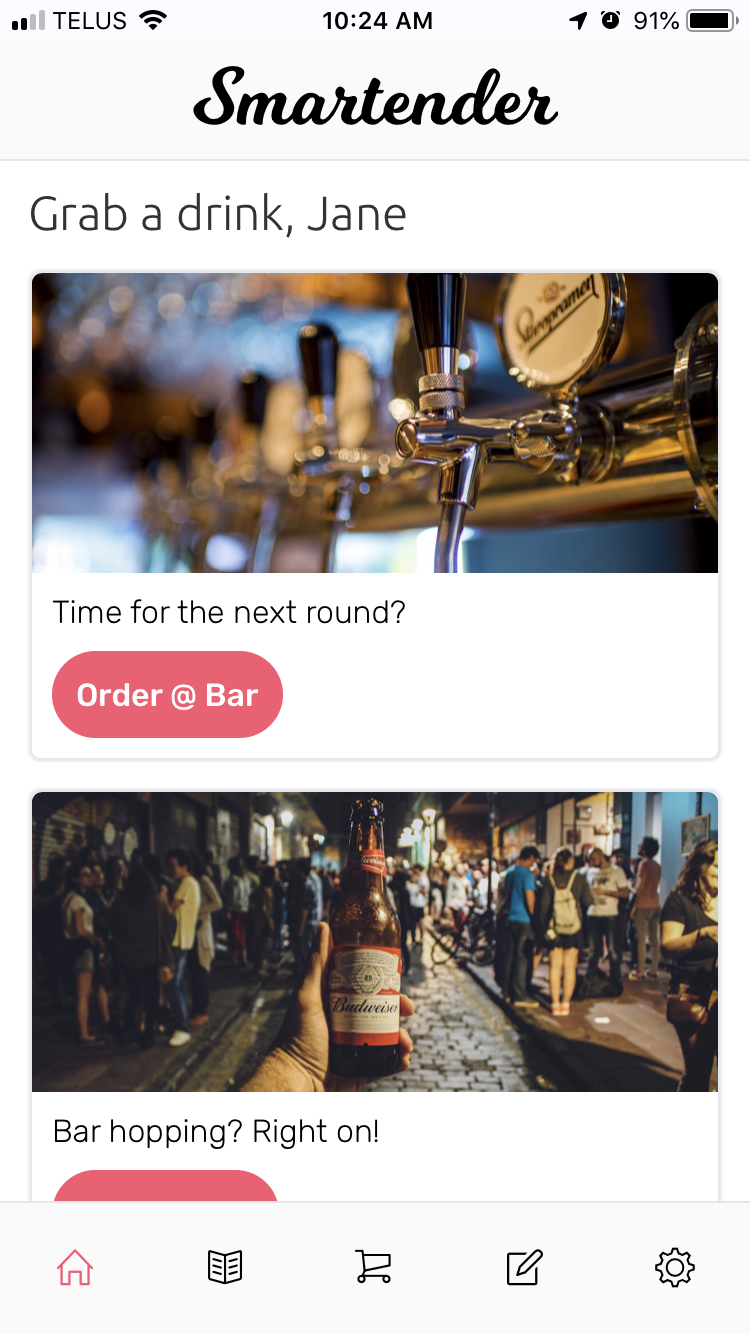
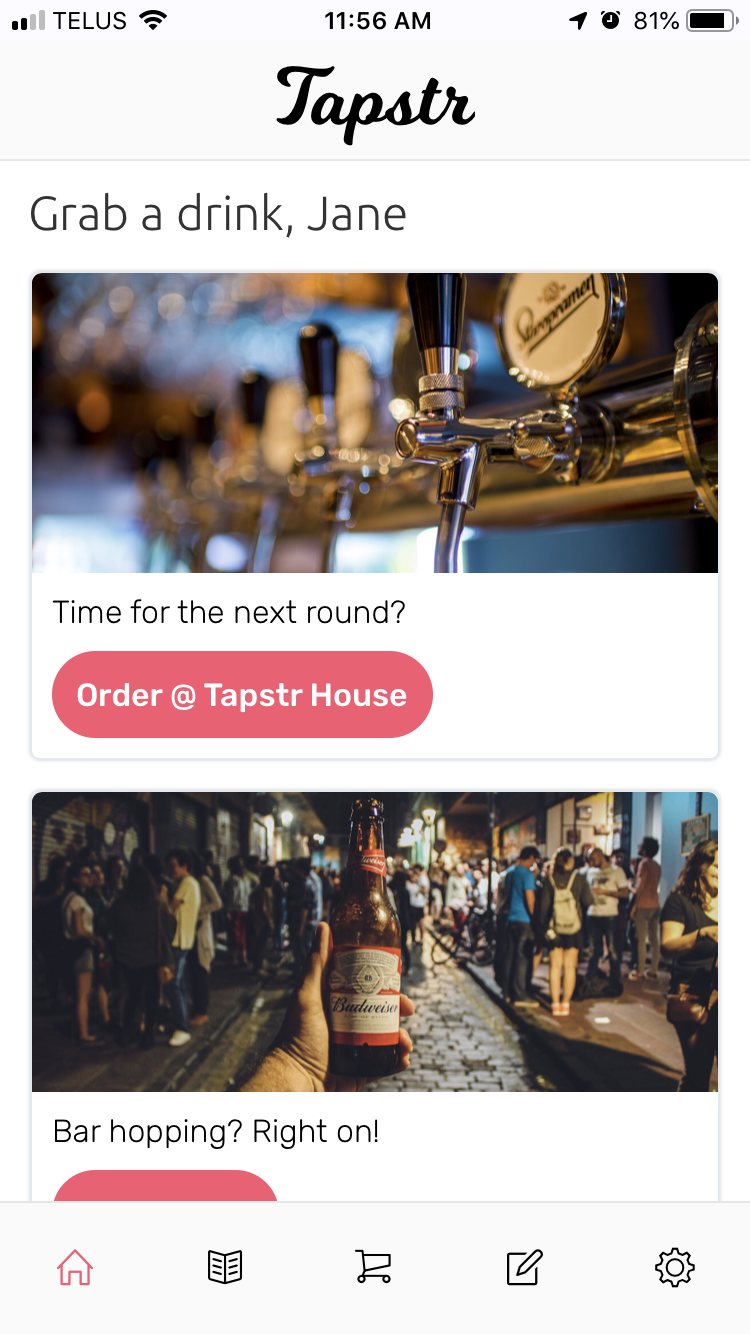
fixed typos and used correct image with name

Changed region(s): [[0.2453, 0.0, 0.736, 0.1229], [0.276, 0.461, 0.5827, 0.5532]]

diff --git a/css/new-age.min.css b/css/new-age.min.css
@@ -2,4 +2,4 @@
  * Start Bootstrap - New Age v5.0.3 (https://startbootstrap.com/template-overviews/new-age)
  * Copyright 2013-2019 Start Bootstrap
  * Licensed under MIT (https://github.com/BlackrockDigital/startbootstrap-new-age/blob/master/LICENSE)
- */body,html{width:100%;height:100%}body{font-family:Rubik,Helvetica,Arial,sans-serif}a{color:#fff;-webkit-transition:all .35s;transition:all .35s}a:focus,a:hover{color:#e6e6e6}hr{max-width:100px;margin:25px auto 0;border-width:1px;border-color:rgba(34,34,34,.1)}hr.light{border-color:#fff}h1,h2,h3,h4,h5,h6{font-family:Milkshake,Helvetica,Arial,sans-serif;font-weight:200;letter-spacing:1px}p{font-size:18px;line-height:1.5;margin-bottom:20px}section{padding:100px 0}section h2{font-size:50px}@font-face{font-family:Milkshake;src:url(../fonts/Milkshake.ttf)}.device .screen img{height:100%}#mainNav{border-color:rgba(34,34,34,.05);background-color:#fff;-webkit-transition:all .35s;transition:all .35s;font-family:Milkshake,Helvetica,Arial,sans-serif;font-weight:200;letter-spacing:1px}#mainNav .navbar-brand{color:#fff;font-size:32px;font-family:Milkshake,Helvetica,Arial,sans-serif;font-weight:200;letter-spacing:1px}#mainNav .navbar-brand:focus,#mainNav .navbar-brand:hover{color:#e6e6e6}#mainNav .navbar-toggler{font-size:12px;padding:8px 10px;color:#222}#mainNav .navbar-nav>li>a{font-size:11px;font-family:Lato,Helvetica,Arial,sans-serif;letter-spacing:2px;text-transform:uppercase}#mainNav .navbar-nav>li>a.active{color:#fa5770!important;background-color:transparent}#mainNav .navbar-nav>li>a.active:hover{background-color:transparent}#mainNav .navbar-nav>li>a,#mainNav .navbar-nav>li>a:focus{color:#222}#mainNav .navbar-nav>li>a:focus:hover,#mainNav .navbar-nav>li>a:hover{color:#fa5770}@media (max-width:375px){#mainNav .navbar-brand{color:#fa5770}#mainNav .navbar-brand:focus,#mainNav .navbar-brand:hover{color:#fa5770}#mainNav.navbar-shrink{-webkit-box-shadow:0 .5rem 1rem rgba(0,0,0,.15);box-shadow:0 .5rem 1rem rgba(0,0,0,.15)}}@media (min-width:992px){#mainNav{border-color:transparent;background-color:transparent}#mainNav .navbar-brand{color:fade(white,70%)}#mainNav .navbar-brand:focus,#mainNav .navbar-brand:hover{color:#fa5770}#mainNav .navbar-nav>li>a,#mainNav .navbar-nav>li>a:focus{color:rgba(255,255,255,.7)}#mainNav .navbar-nav>li>a:focus:hover,#mainNav .navbar-nav>li>a:hover{color:#fff}#mainNav.navbar-shrink{border-color:rgba(34,34,34,.1);background-color:#fff;-webkit-box-shadow:0 .5rem 1rem rgba(0,0,0,.15);box-shadow:0 .5rem 1rem rgba(0,0,0,.15)}#mainNav.navbar-shrink .navbar-brand{color:#fa5770}#mainNav.navbar-shrink .navbar-brand:focus,#mainNav.navbar-shrink .navbar-brand:hover{color:#fa5770}#mainNav.navbar-shrink .navbar-nav>li>a,#mainNav.navbar-shrink .navbar-nav>li>a:focus{color:#222}#mainNav.navbar-shrink .navbar-nav>li>a:focus:hover,#mainNav.navbar-shrink .navbar-nav>li>a:hover{color:#fa5770}}@media (max-width:991.98px){#mainNav .navbar-brand{color:#fa5770}#mainNav .navbar-brand:focus,#mainNav .navbar-brand:hover{color:#fa5770}#mainNav.navbar-shrink{-webkit-box-shadow:0 .5rem 1rem rgba(0,0,0,.15);box-shadow:0 .5rem 1rem rgba(0,0,0,.15)}}header.masthead{position:relative;width:100%;padding-top:150px;padding-bottom:100px;color:#fff;background:url(../img/bg-pattern.png),#dc2430;background:url(../img/bg-pattern.png),-webkit-gradient(linear,right top,left top,from(#dc2430),to(#fa5770));background:url(../img/bg-pattern.png),linear-gradient(to left,#dc2430,#fa5770)}header.masthead .header-content{max-width:500px;margin-bottom:100px;text-align:center}header.masthead .header-content h1{font-family:Rubik;font-size:30px}header.masthead .header-content h2{font-family:Rubik;font-size:24px}header.masthead .device-container{max-width:325px;margin-right:auto;margin-left:auto}header.masthead .device-container .screen img{border-radius:3px}@media (min-width:992px){header.masthead{height:100vh;min-height:775px;padding-top:0;padding-bottom:0}header.masthead .header-content{margin-bottom:0;text-align:left}header.masthead .header-content h1{font-size:50px}header.masthead .device-container{max-width:325px}}section.download{background:#222!important;position:relative;padding:150px 0}section.download h2{font-family:Rubik;font-size:50px;margin-top:0;color:#fff}section.download p{color:#fff}section.download .badges i{font-size:50px;color:#fa5770}section.download .badges a{color:#fff}section.download .badges .badge-link{display:block;margin-bottom:25px}section.download .badges .badge-link:last-child{margin-bottom:0}section.download .badges .badge-link img{height:60px}@media (min-width:768px){section.download .badges .badge-link{display:inline-block;margin-bottom:0}}@media (min-width:768px){section.download h2{font-size:70px;font-family:Rubik}}section.features .section-heading{margin-bottom:100px}section.features .section-heading h2{margin-top:0;font-family:Rubik}section.features .section-heading p{margin-bottom:0}section.features .device-container,section.features .feature-item{max-width:325px;margin:0 auto}section.features .device-container .fas--extramargin,section.features .feature-item .fas--extramargin{margin-bottom:24px}section.features .device-container{margin-bottom:100px}@media (min-width:992px){section.features .device-container{margin-bottom:0}}section.features .feature-item{padding-top:50px;padding-bottom:50px;text-align:center}section.features .feature-item h3{font-size:30px;font-family:Rubik}section.features .feature-item i{font-size:80px;display:block;margin-bottom:15px;background:-webkit-gradient(linear,right top,left top,from(#dc2430),to(#fa5770));background:linear-gradient(to left,#dc2430,#fa5770);-webkit-background-clip:text;-webkit-text-fill-color:transparent}@media (max-width:375px){section.features .device-container{display:none}}section.cta{position:relative;padding:200px 0;background-color:#222;height:100px;display:-webkit-box;display:-ms-flexbox;display:flex;-webkit-box-pack:center;-ms-flex-pack:center;justify-content:center;-webkit-box-align:center;-ms-flex-align:center;align-items:center}section.cta .cta-content{position:relative;z-index:1}section.cta .cta-content h2{font-size:24px;margin-top:0;color:#fff;font-family:Rubik}@media (min-width:768px){section.cta .cta-content h2{font-size:24px}}section.cta .overlay{position:absolute;top:0;left:0;width:100%;height:100%}section.contact{text-align:center}section.contact h2{margin-top:0;margin-bottom:25px;font-family:Rubik}section.contact h2 i{color:#dd4b39}section.contact ul.list-social{margin-bottom:0}section.contact ul.list-social li a{font-size:40px;line-height:80px;display:block;width:80px;height:80px;color:#fff;border-radius:100%}section.contact ul.list-social li.social-twitter a{background-color:#1da1f2}section.contact ul.list-social li.social-twitter a:hover{background-color:#0d95e8}section.contact ul.list-social li.social-facebook a{background-color:#3b5998}section.contact ul.list-social li.social-facebook a:hover{background-color:#344e86}section.contact ul.list-social li.social-google-plus a{background-color:#dd4b39}section.contact ul.list-social li.social-google-plus a:hover{background-color:#d73925}footer{padding:25px 0;text-align:center;color:rgba(255,255,255,.3);background-color:#222}footer p{font-size:12px;margin:0}footer ul{margin-bottom:0}footer ul li a{font-size:12px;color:rgba(255,255,255,.3)}footer ul li a.active,footer ul li a:active,footer ul li a:focus,footer ul li a:hover{text-decoration:none}.bg-primary{background:#fff;background:-webkit-gradient(linear,left top,left bottom,from(#fff),to(#f2f2f2));background:linear-gradient(#fff,#f2f2f2)}.text-primary{color:#fff}.no-gutter>[class*=col-]{padding-right:0;padding-left:0}.btn-outline{color:#fff;border:1px solid;border-color:#fff}.btn-outline:hover{background-color:rgba(255,255,255,.1);color:#fff}.btn-outline.active,.btn-outline:active,.btn-outline:focus{color:#fff;outline:0!important;-webkit-box-shadow:none;box-shadow:none}.btn{border-radius:300px;font-family:Lato,Helvetica,Arial,sans-serif;letter-spacing:2px;text-transform:uppercase}.btn-xl{font-size:11px;padding:15px 45px}.img-fluid{height:520px;width:287px}
+ */body,html{width:100%;height:100%}body{font-family:Rubik,Helvetica,Arial,sans-serif}a{color:#fff;-webkit-transition:all .35s;transition:all .35s}a:focus,a:hover{color:#e6e6e6}hr{max-width:100px;margin:25px auto 0;border-width:1px;border-color:rgba(34,34,34,.1)}hr.light{border-color:#fff}h1,h2,h3,h4,h5,h6{font-family:Milkshake,Helvetica,Arial,sans-serif;font-weight:200;letter-spacing:1px}p{font-size:18px;line-height:1.5;margin-bottom:20px}section{padding:100px 0}section h2{font-size:50px}@font-face{font-family:Milkshake;src:url(../fonts/Milkshake.ttf)}.device .screen img{height:100%}#mainNav{border-color:rgba(34,34,34,.05);background-color:#fff;-webkit-transition:all .35s;transition:all .35s;font-family:Milkshake,Helvetica,Arial,sans-serif;font-weight:200;letter-spacing:1px}#mainNav .navbar-brand{color:#fff;font-size:32px;font-family:Milkshake,Helvetica,Arial,sans-serif;font-weight:200;letter-spacing:1px}#mainNav .navbar-brand:focus,#mainNav .navbar-brand:hover{color:#f92546}#mainNav .navbar-toggler{font-size:12px;padding:8px 10px;color:#222}#mainNav .navbar-nav>li>a{font-size:11px;font-family:Lato,Helvetica,Arial,sans-serif;letter-spacing:2px;text-transform:uppercase}#mainNav .navbar-nav>li>a.active{color:#fa5770!important;background-color:transparent}#mainNav .navbar-nav>li>a.active:hover{background-color:transparent}#mainNav .navbar-nav>li>a,#mainNav .navbar-nav>li>a:focus{color:#222}#mainNav .navbar-nav>li>a:focus:hover,#mainNav .navbar-nav>li>a:hover{color:#fa5770}@media (max-width:375px){#mainNav .navbar-brand{color:#fa5770}#mainNav .navbar-brand:focus,#mainNav .navbar-brand:hover{color:#f92546}#mainNav.navbar-shrink{-webkit-box-shadow:0 .5rem 1rem rgba(0,0,0,.15);box-shadow:0 .5rem 1rem rgba(0,0,0,.15)}}@media (min-width:992px){#mainNav{border-color:transparent;background-color:transparent}#mainNav .navbar-brand{color:fade(white,70%)}#mainNav .navbar-brand:focus,#mainNav .navbar-brand:hover{color:#e6e6e6}#mainNav .navbar-nav>li>a,#mainNav .navbar-nav>li>a:focus{color:rgba(255,255,255,.7)}#mainNav .navbar-nav>li>a:focus:hover,#mainNav .navbar-nav>li>a:hover{color:#fff}#mainNav.navbar-shrink{border-color:rgba(34,34,34,.1);background-color:#fff;-webkit-box-shadow:0 .5rem 1rem rgba(0,0,0,.15);box-shadow:0 .5rem 1rem rgba(0,0,0,.15)}#mainNav.navbar-shrink .navbar-brand{color:#fa5770}#mainNav.navbar-shrink .navbar-brand:focus,#mainNav.navbar-shrink .navbar-brand:hover{color:#f92546}#mainNav.navbar-shrink .navbar-nav>li>a,#mainNav.navbar-shrink .navbar-nav>li>a:focus{color:#222}#mainNav.navbar-shrink .navbar-nav>li>a:focus:hover,#mainNav.navbar-shrink .navbar-nav>li>a:hover{color:#fa5770}}@media (max-width:991.98px){#mainNav .navbar-brand{color:#fa5770}#mainNav .navbar-brand:focus,#mainNav .navbar-brand:hover{color:#f92546}#mainNav.navbar-shrink{-webkit-box-shadow:0 .5rem 1rem rgba(0,0,0,.15);box-shadow:0 .5rem 1rem rgba(0,0,0,.15)}}header.masthead{position:relative;width:100%;padding-top:150px;padding-bottom:100px;color:#fff;background:url(../img/bg-pattern.png),#dc2430;background:url(../img/bg-pattern.png),-webkit-gradient(linear,right top,left top,from(#dc2430),to(#fa5770));background:url(../img/bg-pattern.png),linear-gradient(to left,#dc2430,#fa5770)}header.masthead .header-content{max-width:500px;margin-bottom:100px;text-align:center}header.masthead .header-content h1{font-family:Rubik;font-size:30px}header.masthead .header-content h2{font-family:Rubik;font-size:24px}header.masthead .device-container{max-width:325px;margin-right:auto;margin-left:auto}header.masthead .device-container .screen img{border-radius:3px}@media (min-width:992px){header.masthead{height:100vh;min-height:775px;padding-top:0;padding-bottom:0}header.masthead .header-content{margin-bottom:0;text-align:left}header.masthead .header-content h1{font-size:50px}header.masthead .device-container{max-width:325px}}section.download{background:#222!important;position:relative;padding:150px 0}section.download h2{font-family:Rubik;font-size:50px;margin-top:0;color:#fff}section.download p{color:#fff}section.download .badges i{font-size:50px;color:#fa5770}section.download .badges a{color:#fff}section.download .badges .badge-link{display:block;margin-bottom:25px}section.download .badges .badge-link:last-child{margin-bottom:0}section.download .badges .badge-link img{height:60px}@media (min-width:768px){section.download .badges .badge-link{display:inline-block;margin-bottom:0}}@media (min-width:768px){section.download h2{font-size:70px;font-family:Rubik}}section.features .section-heading{margin-bottom:100px}section.features .section-heading h2{margin-top:0;font-family:Rubik}section.features .section-heading p{margin-bottom:0}section.features .device-container,section.features .feature-item{max-width:325px;margin:0 auto}section.features .device-container .fas--extramargin,section.features .feature-item .fas--extramargin{margin-bottom:24px}section.features .device-container{margin-bottom:100px}@media (min-width:992px){section.features .device-container{margin-bottom:0}}section.features .feature-item{padding-top:50px;padding-bottom:50px;text-align:center}section.features .feature-item h3{font-size:30px;font-family:Rubik}section.features .feature-item i{font-size:80px;display:block;margin-bottom:15px;background:-webkit-gradient(linear,right top,left top,from(#dc2430),to(#fa5770));background:linear-gradient(to left,#dc2430,#fa5770);-webkit-background-clip:text;-webkit-text-fill-color:transparent}@media (max-width:375px){section.features .device-container{display:none}}section.cta{position:relative;padding:200px 0;background-color:#222;height:100px;display:-webkit-box;display:-ms-flexbox;display:flex;-webkit-box-pack:center;-ms-flex-pack:center;justify-content:center;-webkit-box-align:center;-ms-flex-align:center;align-items:center}section.cta .cta-content{position:relative;z-index:1}section.cta .cta-content h2{font-size:24px;margin-top:0;color:#fff;font-family:Rubik}@media (min-width:768px){section.cta .cta-content h2{font-size:24px}}section.cta .overlay{position:absolute;top:0;left:0;width:100%;height:100%}section.contact{text-align:center}section.contact h2{margin-top:0;margin-bottom:25px;font-family:Rubik}section.contact h2 i{color:#dd4b39}section.contact ul.list-social{margin-bottom:0}section.contact ul.list-social li a{font-size:40px;line-height:80px;display:block;width:80px;height:80px;color:#fff;border-radius:100%}section.contact ul.list-social li.social-twitter a{background-color:#1da1f2}section.contact ul.list-social li.social-twitter a:hover{background-color:#0d95e8}section.contact ul.list-social li.social-facebook a{background-color:#3b5998}section.contact ul.list-social li.social-facebook a:hover{background-color:#344e86}section.contact ul.list-social li.social-google-plus a{background-color:#dd4b39}section.contact ul.list-social li.social-google-plus a:hover{background-color:#d73925}footer{padding:25px 0;text-align:center;color:rgba(255,255,255,.3);background-color:#222}footer p{font-size:12px;margin:0}footer ul{margin-bottom:0}footer ul li a{font-size:12px;color:rgba(255,255,255,.3)}footer ul li a.active,footer ul li a:active,footer ul li a:focus,footer ul li a:hover{text-decoration:none}.bg-primary{background:#fff;background:-webkit-gradient(linear,left top,left bottom,from(#fff),to(#f2f2f2));background:linear-gradient(#fff,#f2f2f2)}.text-primary{color:#fff}.no-gutter>[class*=col-]{padding-right:0;padding-left:0}.btn-outline{color:#fff;border:1px solid;border-color:#fff}.btn-outline:hover{background-color:rgba(255,255,255,.1);color:#fff}.btn-outline.active,.btn-outline:active,.btn-outline:focus{color:#fff;outline:0!important;-webkit-box-shadow:none;box-shadow:none}.btn{border-radius:300px;font-family:Lato,Helvetica,Arial,sans-serif;letter-spacing:2px;text-transform:uppercase}.btn-xl{font-size:11px;padding:15px 45px}.img-fluid{height:520px;width:287px}

diff --git a/css/new-age.css b/css/new-age.css
@@ -88,7 +88,7 @@ section h2 {
 }
 
 #mainNav .navbar-brand:hover, #mainNav .navbar-brand:focus {
-  color: #e6e6e6;
+  color: #f92546;
 }
 
 #mainNav .navbar-toggler {
@@ -128,7 +128,7 @@ section h2 {
     color: #fa5770;
   }
   #mainNav .navbar-brand:hover, #mainNav .navbar-brand:focus {
-    color: #fa5770;
+    color: #f92546;
   }
   #mainNav.navbar-shrink {
     -webkit-box-shadow: 0 0.5rem 1rem rgba(0, 0, 0, 0.15);
@@ -145,7 +145,7 @@ section h2 {
     color: fade(white, 70%);
   }
   #mainNav .navbar-brand:hover, #mainNav .navbar-brand:focus {
-    color: #fa5770;
+    color: #e6e6e6;
   }
   #mainNav .navbar-nav > li > a,
   #mainNav .navbar-nav > li > a:focus {
@@ -165,7 +165,7 @@ section h2 {
     color: #fa5770;
   }
   #mainNav.navbar-shrink .navbar-brand:hover, #mainNav.navbar-shrink .navbar-brand:focus {
-    color: #fa5770;
+    color: #f92546;
   }
   #mainNav.navbar-shrink .navbar-nav > li > a,
   #mainNav.navbar-shrink .navbar-nav > li > a:focus {
@@ -182,7 +182,7 @@ section h2 {
     color: #fa5770;
   }
   #mainNav .navbar-brand:hover, #mainNav .navbar-brand:focus {
-    color: #fa5770;
+    color: #f92546;
   }
   #mainNav.navbar-shrink {
     -webkit-box-shadow: 0 0.5rem 1rem rgba(0, 0, 0, 0.15);

diff --git a/scss/_navbar.scss b/scss/_navbar.scss
@@ -10,7 +10,7 @@
         @include heading-font;
         &:hover,
         &:focus {
-            color: darken($theme-primary, 10%);
+            color: darken($tapstr-color, 10%);
         }
     }
     .navbar-toggler {
@@ -45,7 +45,7 @@
             color: $tapstr-color;
             &:hover,
             &:focus {
-                color: $tapstr-color;
+                color: darken($tapstr-color, 10%);
             }
         }
 
@@ -60,7 +60,7 @@
             color: fade(white, 70%);
             &:hover,
             &:focus {
-                color: $tapstr-color;
+                color: darken($theme-primary, 10%);
             }
         }
         .navbar-nav > li > a,
@@ -78,7 +78,7 @@
                 color: $tapstr-color;
                 &:hover,
                 &:focus {
-                    color: $tapstr-color;
+                    color: darken($tapstr-color, 10%);
                 }
             }
             .navbar-nav > li > a,
@@ -96,7 +96,7 @@
             color: $tapstr-color;
             &:hover,
             &:focus {
-                color: $tapstr-color;
+                color: darken($tapstr-color, 10%);
             }
         }
 

diff --git a/index.html b/index.html
@@ -209,7 +209,7 @@
                 <div class="feature-item">
                   <i class="fas fa-4x fa-meh-rolling-eyes text-primary mb-4"></i>
                   <h3>No Harassment</h3>
-                  <p class="text-muted">Getting harassed by strangers while you wait for drink not your thing? It's not ours either.</p>
+                  <p class="text-muted">Getting harassed by strangers while you wait for a drink not your thing? It's not ours either.</p>
                 </div>
               </div>
             </div>
